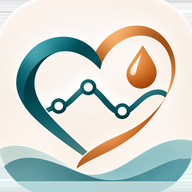
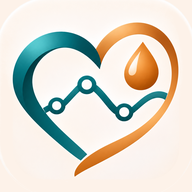
Galīgā ikona
Claude-Session: https://claude.ai/code/session_01ANb2HDVB3pMDUvKbaFFZim

diff --git a/index.html b/index.html
@@ -17,7 +17,7 @@
 <link rel="preconnect" href="https://fonts.googleapis.com">
 <link rel="preconnect" href="https://fonts.gstatic.com" crossorigin>
 <link rel="stylesheet" href="https://fonts.googleapis.com/css2?family=Atkinson+Hyperlegible:wght@400;700&family=Nunito:wght@700;800;900&display=swap">
-<link rel="stylesheet" href="app.css?v=24">
+<link rel="stylesheet" href="app.css?v=25">
 </head>
 <body>
 <div id="app">
@@ -25,7 +25,7 @@
   <!-- ===== sign in ===== -->
   <section id="scrAuth" class="screen center" hidden>
     <div class="authbox">
-      <img src="icons/icon-192.png?v=24" alt="" class="authlogo" width="96" height="96">
+      <img src="icons/icon-192.png?v=25" alt="" class="authlogo" width="96" height="96">
       <h1 class="brand">Cukuriņa pieraksti</h1>
       <p class="muted" id="authInviteNote" hidden>Tev ir ielūgums uz dienasgrāmatu. Pieslēdzies vai izveido kontu, un tas tiks pieņemts.</p>
       <div class="seg" role="tablist">
@@ -47,7 +47,7 @@
   <!-- ===== privacy consent (once per version) ===== -->
   <section id="scrConsent" class="screen center" hidden>
     <div class="authbox">
-      <img src="icons/icon-192.png?v=24" alt="" class="authlogo" width="96" height="96">
+      <img src="icons/icon-192.png?v=25" alt="" class="authlogo" width="96" height="96">
       <h1 class="brand">Privātums</h1>
       <p>Cukuriņa pieraksti glabā bērna veselības datus: insulīna devas, ēdienreizes, glikozes un ketonu mērījumus, piezīmes. Tos redz tikai tie, ko pats uzaicini.</p>
       <p><a href="privatums.html" target="_blank" rel="noopener">Izlasīt privātuma paziņojumu</a></p>
@@ -61,7 +61,7 @@
   <!-- ===== first run ===== -->
   <section id="scrOnboard" class="screen center" hidden>
     <div class="authbox">
-      <img src="icons/icon-192.png?v=24" alt="" class="authlogo" width="96" height="96">
+      <img src="icons/icon-192.png?v=25" alt="" class="authlogo" width="96" height="96">
       <h1 class="brand">Sāksim dienasgrāmatu</h1>
       <form id="obForm" class="form">
         <label>Bērna vārds<input id="obChild" required></label>
@@ -81,7 +81,7 @@
   <!-- ===== main app ===== -->
   <section id="scrMain" class="screen" hidden>
     <header class="topbar">
-      <img src="icons/icon-192.png?v=24" alt="" width="36" height="36" class="toplogo">
+      <img src="icons/icon-192.png?v=25" alt="" width="36" height="36" class="toplogo">
       <div class="toptitle"><b id="childName">Augusts</b><span id="roleLabel"></span></div>
       <select id="childSel" aria-label="Dienasgrāmata" hidden></select>
     </header>
@@ -235,7 +235,7 @@
 <div id="printArea" aria-hidden="true"></div>
 
 <script src="vendor/supabase-2.45.4.js"></script>
-<script src="config.js?v=24"></script>
-<script src="app.js?v=24"></script>
+<script src="config.js?v=25"></script>
+<script src="app.js?v=25"></script>
 </body>
 </html>

diff --git a/sw.js b/sw.js
@@ -1,6 +1,6 @@
 // App shell cache. Data always comes live from the database; only the app files are cached.
-const CACHE = "cukurins-v24";
-const SHELL = ["./", "index.html", "app.css?v=24", "app.js?v=24", "config.js?v=24", "manifest.webmanifest",
+const CACHE = "cukurins-v25";
+const SHELL = ["./", "index.html", "app.css?v=25", "app.js?v=25", "config.js?v=25", "manifest.webmanifest",
   "vendor/supabase-2.45.4.js", "icons/icon-192.png", "icons/icon-512.png", "icons/apple-touch-icon.png", "icons/favicon-32.png"];
 
 self.addEventListener("install", e => {
